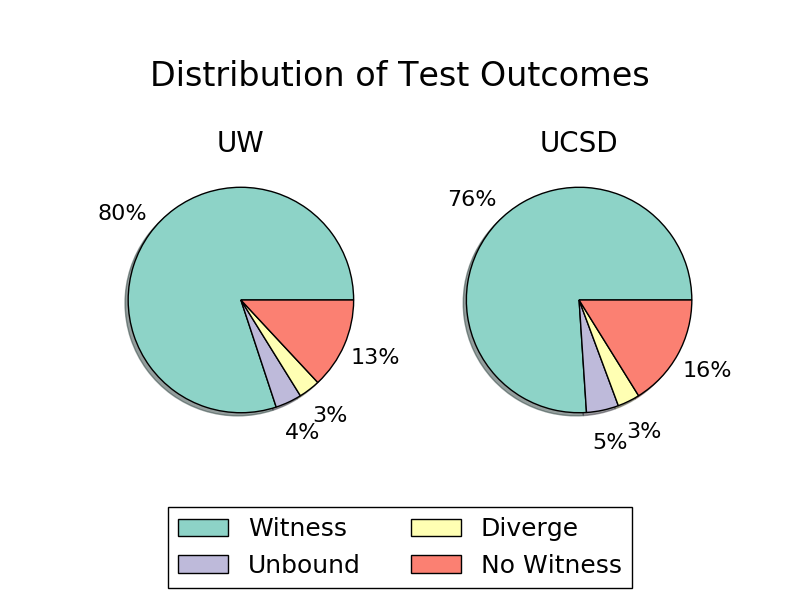
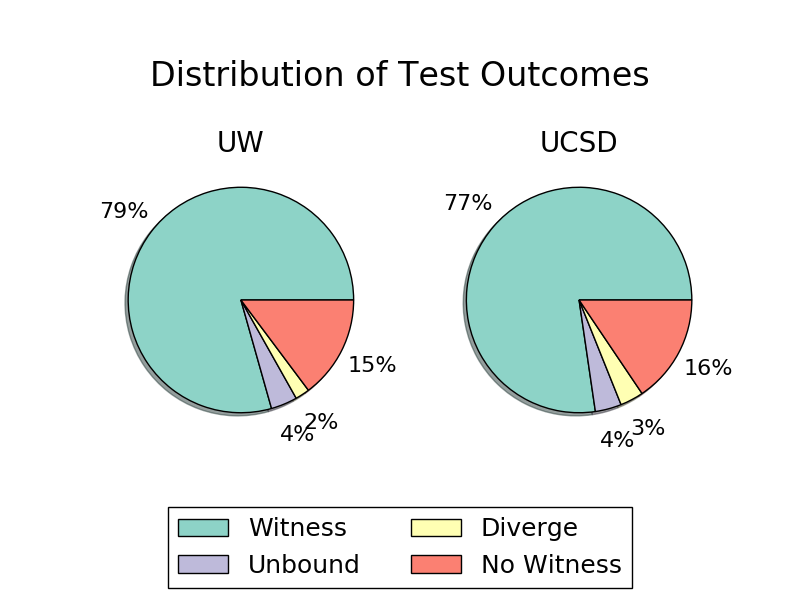
update some numbers, still need investigation of failed witness

diff --git a/paper/jfp-submission/evaluation.tex b/paper/jfp-submission/evaluation.tex
@@ -91,7 +91,7 @@ course of the first three assignments (IRB
 % \# hidden for blind review),
 \#140608),
 from which we extracted \ucsdsize\ distinct, ill-typed \ocaml\ programs
-from a cohort of 46 students..
+from a cohort of 46 students.
 %
 The second dataset --- widely used in the literature --- comes from a
 graduate-level course at the University of Washington~\cite{Lerner2006-pj},
@@ -170,16 +170,16 @@ in the program, and thus valuable feedback for the user.
 % }
 % \vspace{3ex}
 \caption{Results of our coverage testing. Our random search successfully
-  finds witnesses for 76--82\% of the programs in under one second,
+  finds witnesses for 76--83\% of the programs in under one second,
   improving to 84--85\% in under 10 seconds. }
 \label{fig:results-witness}
 \end{figure}
 \begin{figure}[t]
 \includegraphics[width=0.7\linewidth]{distrib.png}
 \caption{Distribution of test outcomes. In both datasets we detect
-  actual type errors at least 75\% of the time, unbound variables or
-  constructors 4--5\% of the time, and diverging loops 3\% of the
-  time. For the remaining 13--16\% of the programs we are unable to
+  actual type errors at least 77\% of the time, unbound variables or
+  constructors 4\% of the time, and diverging loops 2--3\% of the
+  time. For the remaining 15--16\% of the programs we are unable to
   provide any useful feedback. }
 \label{fig:results-distrib}
 \end{figure}
@@ -193,15 +193,15 @@ Figures~\ref{fig:results-witness}~and~\ref{fig:results-distrib}.
 In both datasets our tool was able to find a witness for over 75\% of the
 programs in under one second, \ie\ fast enough to be integrated as a
 compile-time check. If we extend our tolerance to a 10 second timeout,
-we reach 84--85\% coverage, and if we allow a 60 second search,
-we hit a maximum of 84--87\% coverage.
+we reach 84\% coverage, and if we allow a 60 second search,
+we hit a maximum of 84--85\% coverage.
 %
 Interestingly, while the vast majority of witnesses corresponded to a
-type-error, as expected, 4--5\% triggered an unbound variable error (even
+type-error, as expected, 4\% triggered an unbound variable error (even
 though \ocaml\ reported a type error) and 3\% triggered an infinite
 recursion error.
 %
-For the remaining 13--16\% of programs we were unable to provide any useful
+For the remaining 15--16\% of programs we were unable to provide any useful
 feedback as they either completed 1,000 tests successfully, or timed out
 after one minute.
 %
@@ -258,14 +258,14 @@ trace using two metrics.
 The results of the experiment are summarized in
 Figure~\ref{fig:results-complexity}.
 %
-The average number of single-step reductions per trace is 30 for the
-\ucsdbench\ dataset (45 for the \uwbench\ dataset) with a maximum of
-2,745 (\resp 982) and a median of 14.5 (\resp 14.5).
+The average number of single-step reductions per trace is 17 for the
+\ucsdbench\ dataset (42 for the \uwbench\ dataset) with a maximum of
+2,745 (\resp 982) and a median of 15 (\resp 15).
 %
-The average number of jumps per trace is 7 (\resp 10) with a
+The average number of jumps per trace is 7 (\resp 9) with a
 maximium of 353 (\resp 221) and a median of 4 (\resp 4).
 %
-In both datasets 60\% of traces have at most 5 jumps, and 80\% or more
+In both datasets about 60\% of traces have at most 5 jumps, and 80\% or more
 have at most 10 jumps.
 
 

diff --git a/paper/jfp-submission/locating.tex b/paper/jfp-submission/locating.tex
@@ -34,10 +34,10 @@ at some point a ``fix'' becomes a ``rewrite''.
 We do not wish to consider the ``rewrites'', so we discard outliers
 where the fraction of expressions that have changed is more than one
 standard deviation above the mean, establishing a diff threshold of
-45\%.
+40\%.
 %
 This accounts for roughly 14\% of programs pairs we discovered, leaving
-us with 2,425 program pairs.
+us with 2,710 program pairs.
 
 For each pair of an ill-typed program and its fix, we run \toolname and
 collect two sets of source locations:
@@ -82,13 +82,13 @@ minute, or where \toolname failed to produce a witness.
 %
 We discard all such programs in our evaluation to level the playing
 field, around 15\% for each tool, leaving us with a benchmark set of
-1,569 programs.
+1,759 programs.
 
 \paragraph{Threats to Validity}
 Our benchmarks were drawn from students in an undergraduate course
 at \ucsdbench\ and may not be representative of other student bodies.
 %
-We mitigate this threat with a large empirical evaluation of 1,569
+We mitigate this threat with a large empirical evaluation of 1,759
 programs, drawn from a cohort of 46 students.
 %
 A similar threat is that students are not industrial programmers, thus
@@ -132,7 +132,7 @@ do.
 \begin{figure}[t]
 \includegraphics[width=0.7\linewidth]{blame.png}
 \caption{Accuracy of type error localization. \toolname's witness-based
-  predictions outperform \ocaml by 22 points, and are competitive
+  predictions outperform \ocaml by 21 points, and are competitive
   with the state-of-the-art tools \mycroft and \sherrloc.}
 \label{fig:results-blame}
 \end{figure}
@@ -149,7 +149,7 @@ error location.
 %
 Interestingly, while all tools have a median of 2 predicted error
 locations per program, \mycroft and \sherrloc have a long tail with a
-maximum of 22 (\resp 12) locations, while \toolname's maximum is 5
+maximum of 22 (\resp 11) locations, while \toolname's maximum is 5
 locations.
 %
 We also note that while \mycroft and \sherrloc were designed

diff --git a/paper/jfp-submission/plots.py b/paper/jfp-submission/plots.py
@@ -404,7 +404,7 @@ def plot_blame():
 
     # FIXME: load these numbers from csv...
     tools = ['OCaml', 'NanoMaLy', 'Mycroft', 'SHErrLoc']
-    accs  = [49.0,    70.7,       71.0,      78.9      ]
+    accs  = [47.4,    68.3,       73.2,      75.8      ]
 
     N = len(tools)
     ind = np.arange(N)    # the x locations for the groups
@@ -430,7 +430,7 @@ def plot_blame():
 
 if __name__ == '__main__':
     seminal = read_csv('../../seminal.csv')
-    ucsd = read_csv('../../ucsd.csv')
+    ucsd = read_csv('../../ucsd-sp14.csv')
 
     plot_distrib(seminal, ucsd)
     plot_distrib_extended(ucsd)
